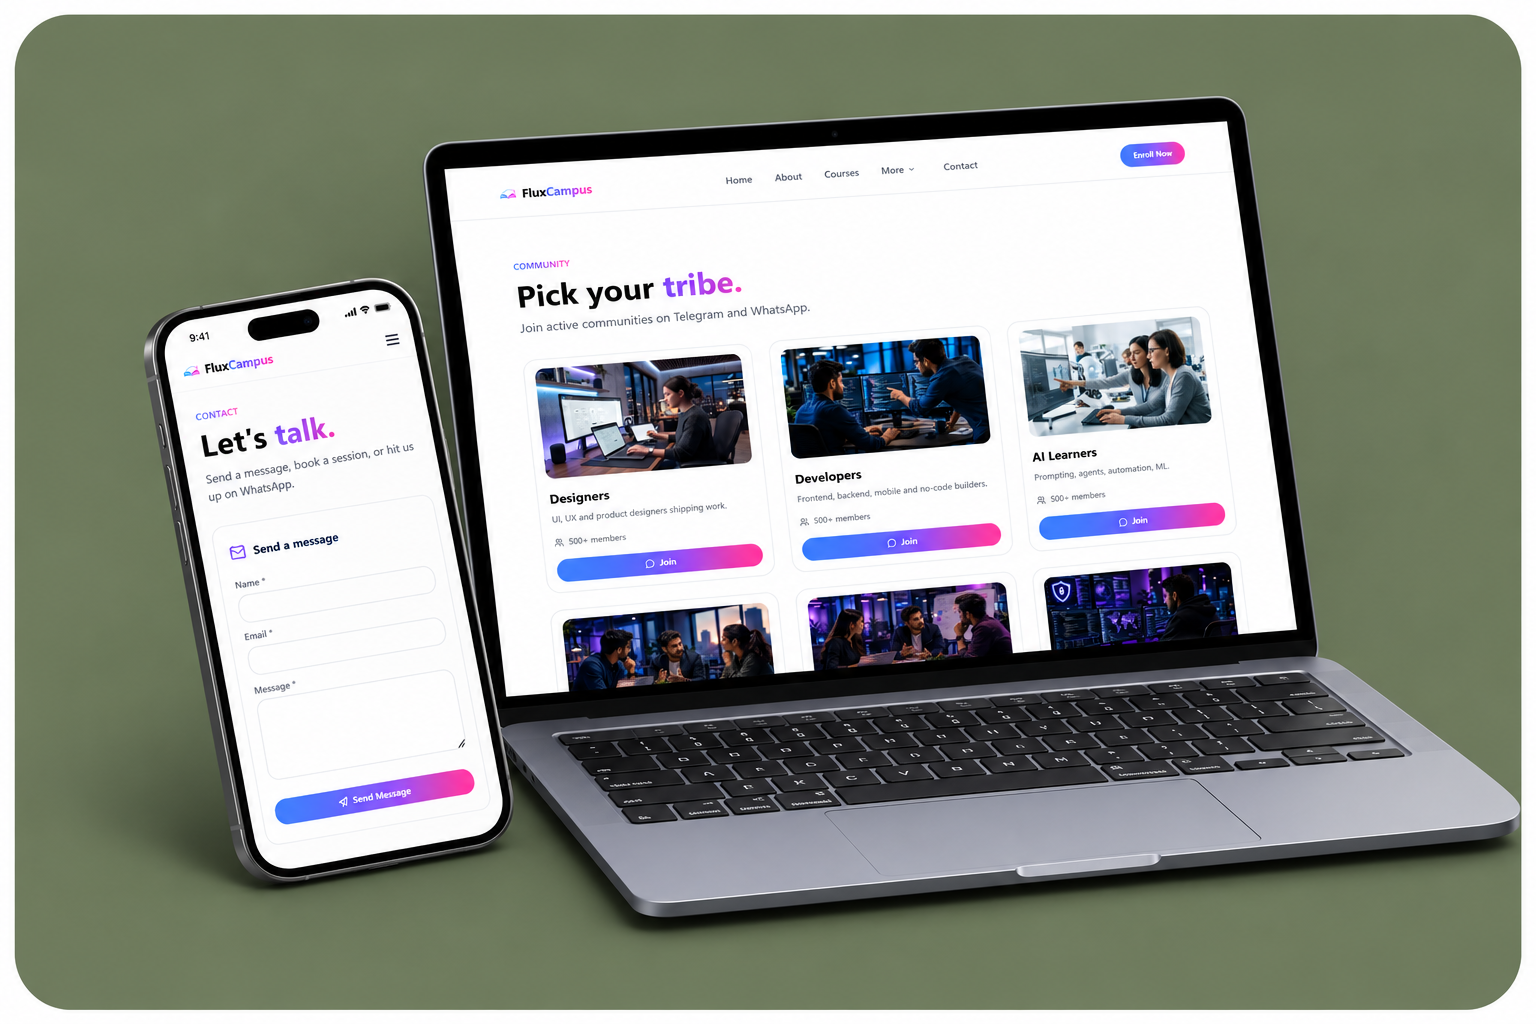
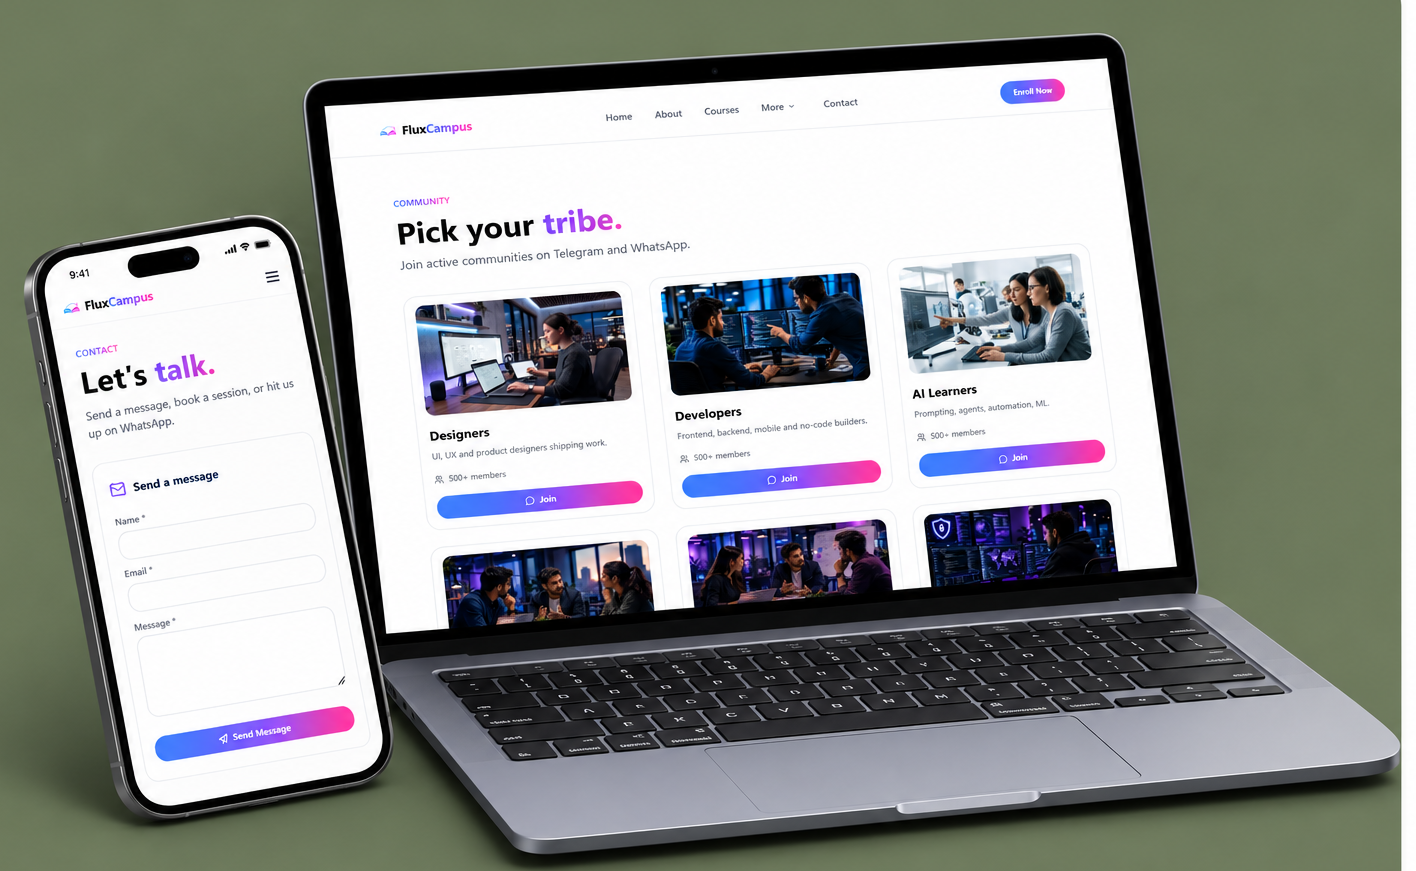
Project card update

diff --git a/src/sections/Projects/Projects.css b/src/sections/Projects/Projects.css
@@ -19,7 +19,8 @@
 
 .projects__header {
   display: grid;
-  grid-template-columns: 1fr 0.6fr;
+  grid-template-columns: 1fr;
+  /* grid-template-columns: 1fr 0.6fr; */
   align-items: end;
 
   gap: var(--space-12);
@@ -48,7 +49,7 @@
 .projects__description {
   max-width: 500px;
 
-  font-size: var(--text-lg);
+  font-size: var(--text-xl);
   line-height: 1.7;
 }
 
@@ -58,10 +59,8 @@
 
 .projects__grid {
   display: grid;
-
-  grid-template-columns: 1fr;
-
-  gap: var(--space-20);
+  grid-template-columns: repeat(2, minmax(0, 1fr));
+  gap: var(--space-8);
 }
 
 /* =========================
@@ -73,6 +72,9 @@
     grid-template-columns: 1fr;
 
     gap: var(--space-5);
+  }
+  .projects__grid {
+    grid-template-columns: 1fr;
   }
 
   .projects__description {

diff --git a/src/sections/Projects/Projects.jsx b/src/sections/Projects/Projects.jsx
@@ -13,16 +13,6 @@ function Projects() {
 
             <h2 className="projects__title">Dream Big with Start Small</h2>
           </div>
-
-          {/* <p className="projects__description">
-            A selection of projects I've built and contributed to, combining
-            thoughtful design with modern frontend development.
-          </p> */}
-          <p className="projects__description">
-            You will discover various projects that embody big dreams starting
-            from small beginnings, ranging from innovative digital solutions to
-            services that promote sustainability.
-          </p>
         </div>
 
         {/* Projects */}
